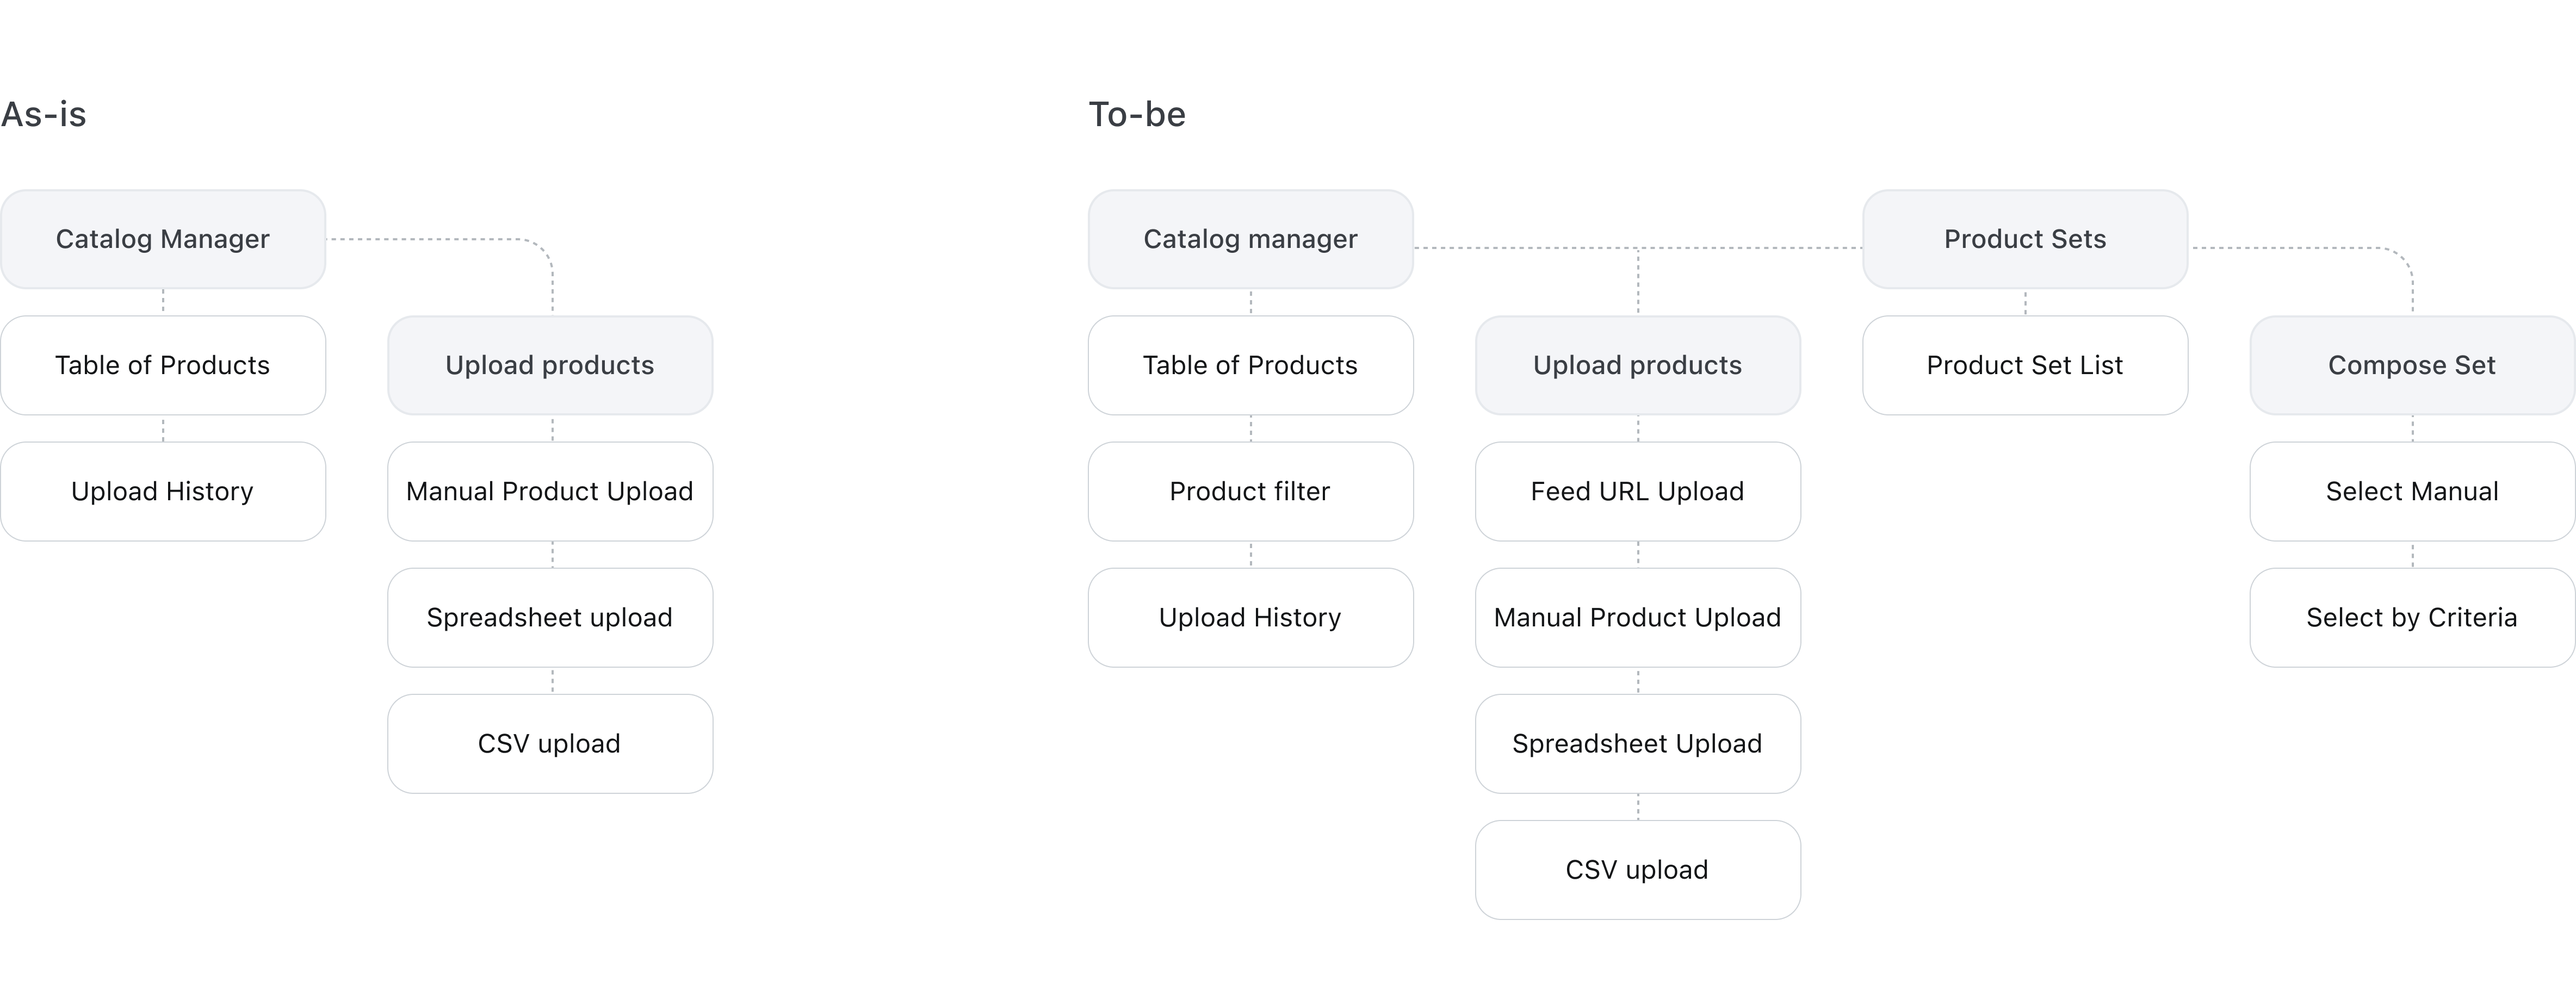
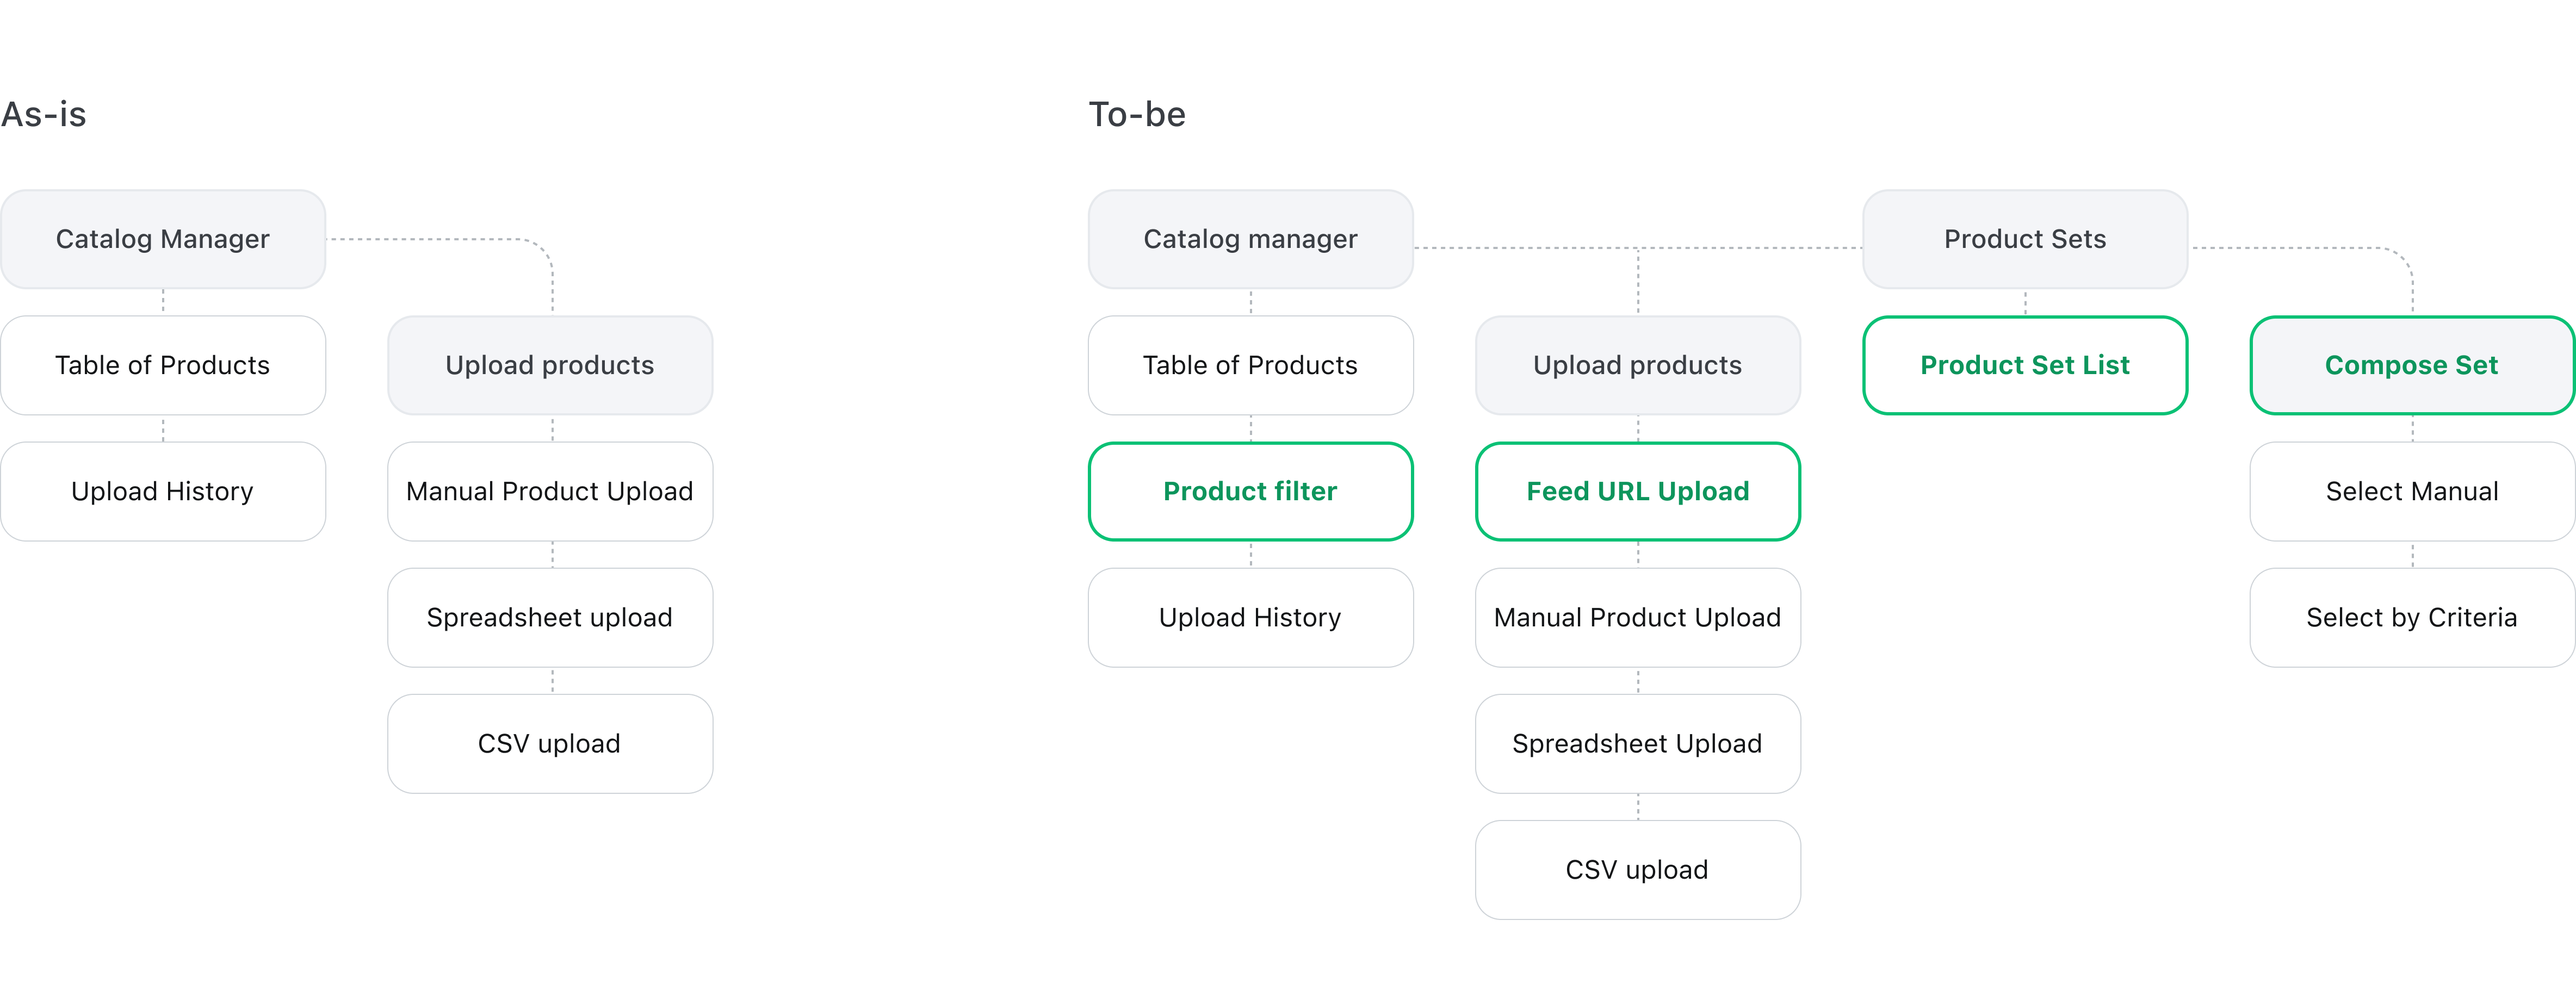
work7 update

diff --git a/src/Work7CatalogManager.tsx b/src/Work7CatalogManager.tsx
@@ -24,7 +24,10 @@ import feature4 from './image/works/work7feature4.png';
 import structure from './image/works/work7structure.png';
 import design1 from './image/works/work7design1.png';
 import design2 from './image/works/work7design2.png';
+import FeedURLUpload1 from './image/works/work7FeedURLUpload1.png';
+import firstUserScenario from './image/works/work7firstUserScenario.png';
 import { WorkFullImage } from './workDetailPage/WorkFullImage';
+import { Divider } from '@mui/material';
 //CatalogManager
 
 function Work7(props: {
@@ -81,6 +84,12 @@ function Work7(props: {
       <WorkTextSection title={'UX/UI Design'}/>
       <WorkFullImage image={design1}/>
       <WorkFullImage image={design2}/>
+      <Divider/>
+      <WorkTextSection title={'First User Scenario'}/>
+      
+      <WorkFullImage image={firstUserScenario}/>
+      <WorkTextSection title={'Feed URL Upload'}/>
+      <WorkFullImage image={FeedURLUpload1}/>
       <Waiting/>
       <BackButton/>
       <NextItem to='/Work6' thumbnail={thumbnail6} nextProjectTitle='New Outlink-Type Ads'/>
